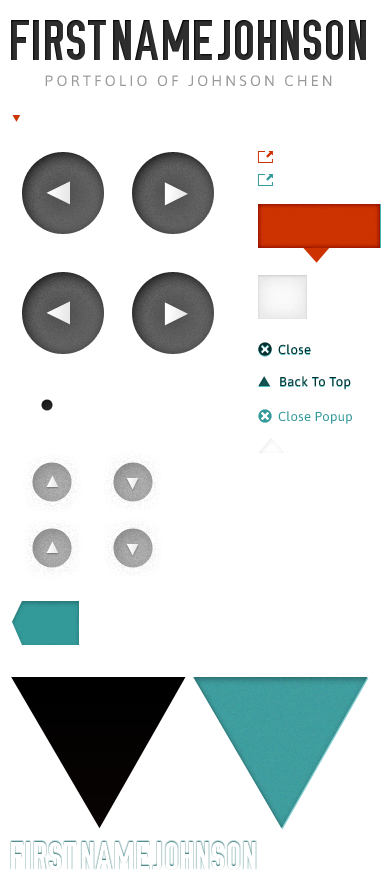
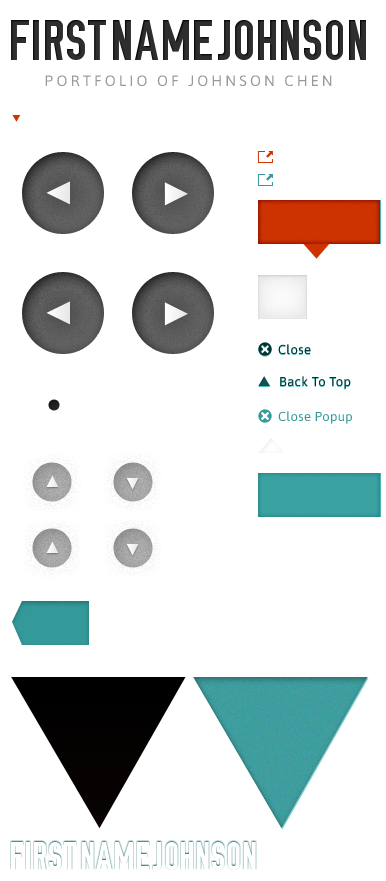
Pixel Pushing
Styled almost everything down to the pixel. Need you to add a:active to
"showcase" anchor, remove text animation, and do the 'expand' popup
stuff. ALMOST DONE!

diff --git a/stylesheets/main.css b/stylesheets/main.css
@@ -132,8 +132,9 @@ width:100%;
 
 .main-menu {
 padding-top:40px; margin:auto;overflow:hidden;
-width:520px;
+width:613px;
 }
+
 .main-menu li:last-child {
 margin-right:0px;
 }
@@ -141,9 +142,10 @@ margin-right:0px;
 .main-menu li {
 float:left; 
 font-family: 'ospdin', Helvetica Neue, sans-serif; 
-font-size:29px;
+font-size:30px;
 text-transform:uppercase;
-margin-right:50px;
+margin-right:70px;
+letter-spacing: 0.04em;
 }
 .main-manu li  a {
 color:green;
@@ -157,7 +159,7 @@ clear:both;
 	font-size:34px;
 	line-height:38px; 
 		width:80%;
-	margin:25px auto;
+	margin:45px auto;
 	text-shadow:3px 5px #f0f0f0;
 	color:#474747;
 	}
@@ -195,6 +197,9 @@ display:block;
 color:#666666;
 padding-bottom:10px;
 margin-left:62px;
+font-size:13px;
+letter-spacing: 0.1em;
+
 /* text-shadow: 0px 1px 0px rgba(255, 255, 255, 0.6); 
             filter: progid:DXImageTransform.Microsoft.gradient(startColorstr=#99FFFFFF,endColorstr=#99FFFFFF);
             zoom: 1;  
@@ -234,11 +239,11 @@ margin-left:80px;
 	
 	color:#339999;
 
-  -webkit-transition: all 0.3s ease-out; 
-     -moz-transition: all 0.3s ease-out; 
-      -ms-transition: all 0.3s ease-out; 
-       -o-transition: all 0.3s ease-out; 
-          transition: all 0.3s ease-out;
+  -webkit-transition: all 0.2s ease-out; 
+     -moz-transition: all 0.2s ease-out; 
+      -ms-transition: all 0.2s ease-out; 
+       -o-transition: all 0.2s ease-out; 
+          transition: all 0.2s ease-out;
 }
 
 /* Buttons and pictures */
@@ -272,8 +277,6 @@ padding-top:150px;
 padding:15px 0px;
 }
 @media only screen and (max-width: 5000px) {
-h2.johnson-s-mail {
-font-size:67px;padding-top:10px;}
 
 .image-wrap img{
 width:auto;
@@ -377,18 +380,14 @@ width:100%;
 	padding:15px 15px !important;
 	}
 
-.johnson-s-mail a {
-font-size:50px; !important
-}
+
 
 }
-	
-	
 @media only screen and (max-width: 400px) {
 	.main-menu li a {
 	font-size:20px;
 	}
-.johnson-s-mail a {font-size:27px; !important}
+
 .hello-text {
 font-size:14px !important;
 line-height:25px;
@@ -404,7 +403,7 @@ div.orbit-wrapper div.slider-nav span.right {
     background: url(../images/image.png) no-repeat -120px -130px;
 	width:110px;
 	height:120px;
-    right: -150px; }
+    right: -125px; }
 	
 	div.orbit-wrapper div.slider-nav span.right:hover {
     background: url(../images/image.png) no-repeat -120px -250px;
@@ -462,7 +461,7 @@ div.orbit-wrapper div.slider-nav span.left {
 	
 	.nav-point {
 		background: url(../images/image.png) no-repeat -260px -275px !important;
-		width:45px;
+		width:47px;
 		height:42px;
 		overflow:hidden;
 		text-align:right;
@@ -470,7 +469,7 @@ div.orbit-wrapper div.slider-nav span.left {
 		font-size:30px;
 	}
 	.nav-point p {
-	padding-right:15px;
+	padding-right:18px;
 	padding-top:7px;
 	color:black;
 	}
@@ -519,7 +518,7 @@ padding-left:15px;
 		content:' ';
 }
 .current-nav p {
-color:white !important;
+color:white !important; padding-right:40px;
 }
 
 .about {
@@ -671,7 +670,8 @@ display:block;
 float:right;
 content:' ';
 }
-span.expand {display:block; margin-top:15px;}
+span.expand {display:block; margin-top:10px;}
+
 .expand:before {
 background: url(../images/image.png) no-repeat -258px -147px;
 width:20px;
@@ -742,26 +742,22 @@ div.row {margin-top:-10px;}
 	span.one {color:white; text-shadow:0px -1px 0px #072624;}
 		span.two {color:#114844; text-shadow: 0px 1px 0px #9ddadf;}
 
-#footer-slide .johnson-s-mail {margin: auto;}	
 
-	
-a.johnson-s-mail span {font-size:12px; display: block;  color:black;}
-a.johnson-s-mail {
-font-size:12px;
-display: block;
-color:black;
+#footer-slide a.johnson-email h2 {margin: auto; margin-left:0px !important;}	
+
+a.johnson-email h2 {
+font-size:67px; 
+padding-top:10px;
 }
-.johnson-s-mail a {
-color:white;
-}
-	
+
+		
 .arrow-up {
 display:block;
 background: url(../images/image.png) no-repeat -15px -445px;
 position:absolute;
 width:80px;
 margin-left:-10px;
-height:80px;
+height:70px;
 /*margin:auto;*/
 top:-70px;
 cursor:pointer;
@@ -781,7 +777,7 @@ width:80px;
 margin-left:-10px;
 height:70px;
 /*margin:auto;*/
-bottom:-77px;
+bottom:-66px; 
 cursor:pointer;
 display:block;
 content:' ';
@@ -815,7 +811,10 @@ text-shadow:1px 1px 1px rgba(0,0,0,0.7);
 background:url(../images/bg/line-turquoise-color.png) no-repeat 50% top;
 height:5px;
 width:960px;
-margin-top:15px;
+margin-top:10px;
+margin-bottom:5px;
+opacity: .3;
+  filter: alpha(opacity=30); /*for ie6-ie8*/
 
 }
 
@@ -839,9 +838,27 @@ display:block;
 content:' ';
 }
 .sub-menu {
-max-width:500px;
+max-width:470px;
 margin:auto;
 }
+
+.sub-menu li a {
+color:#003333; 
+text-shadow:0px 1px 0px white;
+}
+
+.sub-menu li a:hover {
+color: #cc3300;
+font-weight: bold;
+
+  -webkit-transition: all 0.2s ease-out; 
+     -moz-transition: all 0.2s ease-out; 
+      -ms-transition: all 0.2s ease-out; 
+       -o-transition: all 0.2s ease-out; 
+          transition: all 0.2s ease-out;
+
+}
+
 
 .sub-menu li {
 float:left;
@@ -865,7 +882,7 @@ overflow-x:hidden;
 	width:100%;
 	background:rgba(0,0,0,0.8);
 	/* overflow:hidden; */
-	background:url(../images/bg/about-background.png);
+	background:url(../images/bg/top-hover-bar-green.png);
 	box-shadow: inset 0px -5px 15px rgba(0,0,0,0.1);
 	content:' ';
 	}
@@ -875,18 +892,21 @@ width:25%;
 }
 .green-bar .row li a {
 width:125px;
-padding-top:10px;
+padding-top:13px;
 height:60px;
 display:block;
 margin:auto;
 text-align:center;
 cursor:pointer;
+color:white;
+text-shadow:0px -1px 0px #0f5454;
 }
 .green-bar .row li a:hover {
-/*background: url(../images/image.png) no-repeat -258px -204px;*/
+background: url(../images/image.png) no-repeat -256px -474px;
 }
 .green-bar .row li a.active {
-background: url(../images/image.png) no-repeat -258px -204px;
+background: url(../images/image.png) no-repeat -256px -200px;
+text-shadow:0px -1px 0px #451000;
 }
 
 

diff --git a/index.html b/index.html
@@ -159,7 +159,7 @@ This is a 11 inch by 17 inch concept map about the process of creating buildings
 					</div>
 				</div>
 				<div class=row>
-					<h2 class=johnson-s-mail><a href="emailto(johnsonc725@gmail.com)" alt="" class="">firstname <span>at</span>gmail<span>dot</span>com</a></h2>
+					<a href="mailto:someone@example.com?Subject=Hello%20There" alt="" class=johnson-email><h2>firstname <span>at</span>gmail<span>dot</span>com</h2></a>
 				</div>
 				<div class=row>
 					<div class="five columns show-on-desktops">
@@ -260,7 +260,7 @@ This is a 11 inch by 17 inch concept map about the process of creating buildings
 	<div id="second" class="slide">
 	
 		<div class="row padding100">
-		<span class=showcase-number>Showcase 2 of 5</span>
+		<span class="showcase-number white">Showcase 2 of 5</span>
 
 		<div class="featured" id=first-slider> 
 			<img src="images/showcase1/slider2/1opt.jpg" width="100%" />
@@ -334,7 +334,7 @@ This is a 11 inch by 17 inch concept map about the process of creating buildings
 	
 	<div id="fourth" class="slide">
 		<div class="row padding100">
-		<span class=showcase-number>Showcase 4 of 5</span>
+		<span class="showcase-number white">Showcase 4 of 5</span>
 
 		<div class="featured" id=first-slider> 
 			<img src="images/showcase1/slider3/1opt.jpg" width="100%" />
@@ -411,7 +411,7 @@ This is a 11 inch by 17 inch concept map about the process of creating buildings
 			</div>
 			<div style="text-align:center;">
 				<p>Thanks for looking. Best way to contact me is to email me at</p>
-					<h2 class=johnson-s-mail><a href="emailto(johnsonc725@gmail.com)" alt="" class="">firstname <span>at</span>gmail<span>dot</span>com</a></h2>
+					<a href="mailto:someone@example.com?Subject=Hello%20There" alt="" class="johnson-email"><h2 class="">firstname <span>at</span>gmail<span>dot</span>com</h2></a>
 				<p>To be sure check out the rest of my stuff in <span class=one>showcase2</span>, <span class=two>photography</span>, & <span class=two>everything else</span> as it shows projects that I consider more fun</p>
 			</div>
 		
